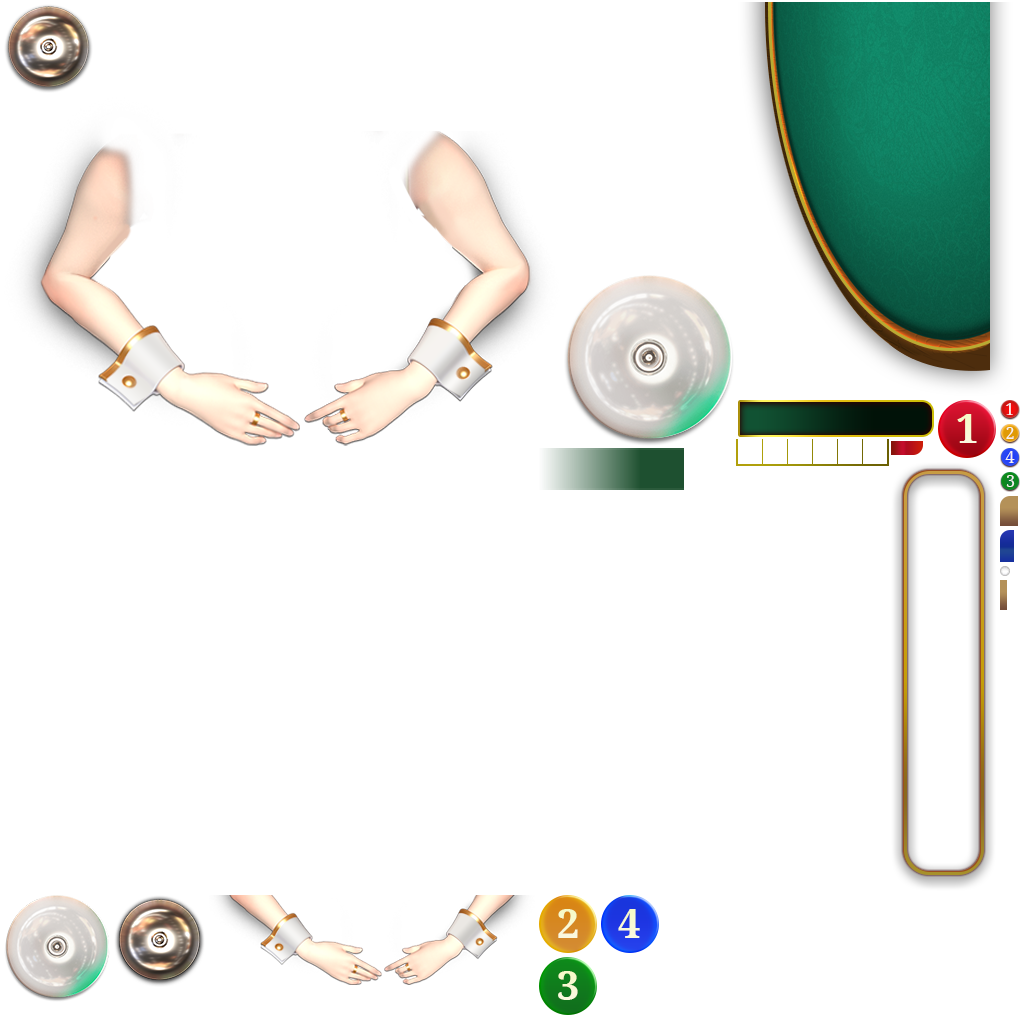
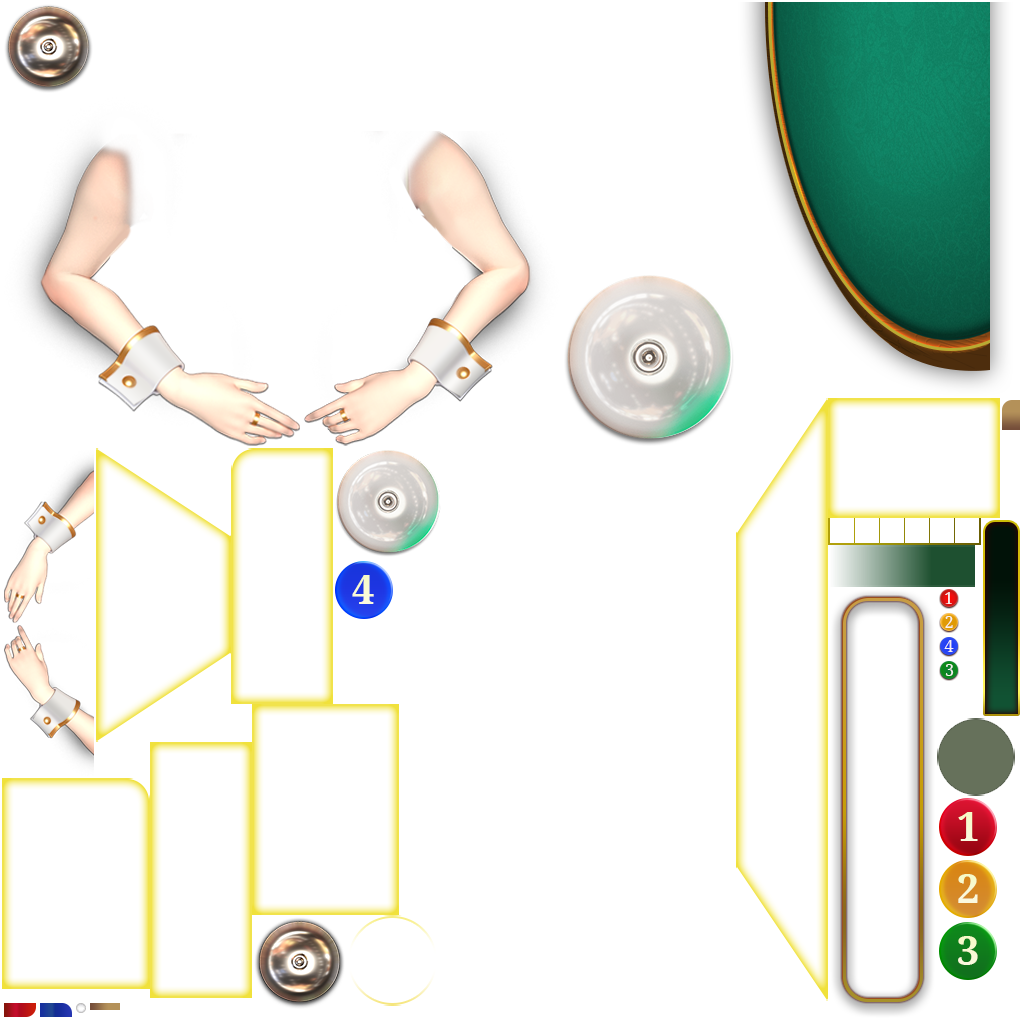
feat: update images for fantan

Changed region(s): [[0.0, 0.4375, 0.6562, 1.0], [0.7188, 0.375, 1.0, 1.0], [0.5312, 0.4375, 0.6875, 0.5]]

diff --git a/0_texturepacker/pack-resources.py b/0_texturepacker/pack-resources.py
@@ -8,7 +8,7 @@ if __name__ == '__main__':
     current_dir = os.path.dirname(os.path.realpath(__file__))
     project_dir = os.path.join(current_dir, '..')
 
-    images_dir = "multiplay-keno"
+    images_dir = "fantan"
 
     # Pack.
     packer_path = os.path.join(
